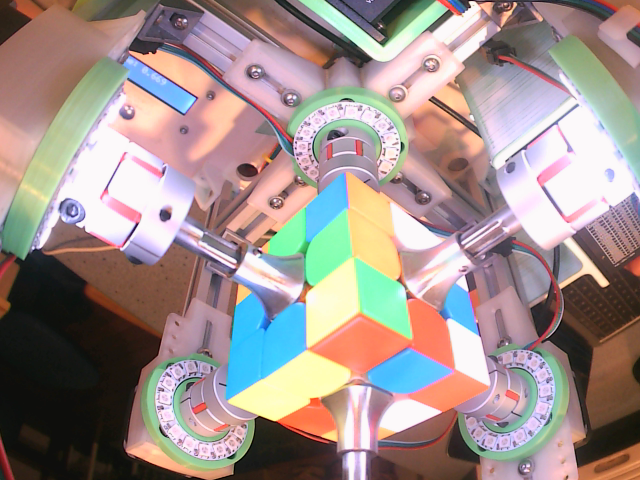
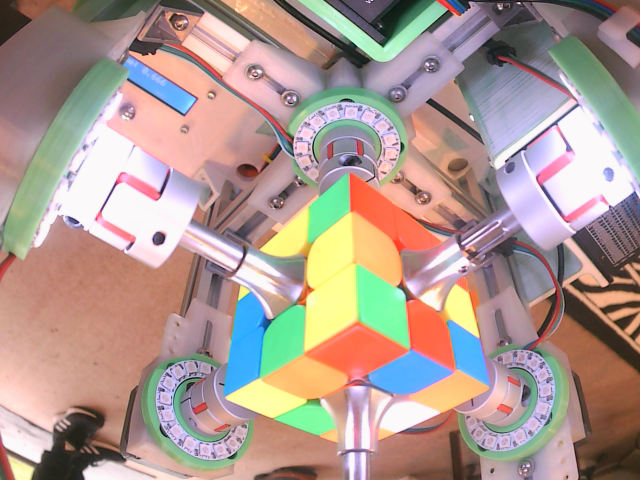
w

diff --git a/imageTest.py b/imageTest.py
@@ -5,23 +5,74 @@ import numpy as np
 from sklearn.cluster import KMeans
 from collections import Counter
 import pandas as pd
-import math
+from webcolors import *
+from scipy.spatial import KDTree
+import kociemba
+import ledssss
+import time
 
-imageTop = "copyTop.png"
-imageBottom = "copyBottom.png"
+brightness = 30
+white = (brightness, brightness, brightness)
 
-#process the image to be looked at
-imageBottom = cv.imread(imageBottom)
-imageTop = cv.imread(imageTop)
+ringBack = ledssss.ledRing(1)
+ringUp = ledssss.ledRing(2)
+ringLeft = ledssss.ledRing(3)
+ringDown = ledssss.ledRing(4)
+ringRight = ledssss.ledRing(5)
+ringFront = ledssss.ledRing(6)
+
+def takePhoto(port, imageName):
+        camera0 = cv.VideoCapture(port)
+        _, image = camera0.read()
+        cv.imwrite(imageName, image)
+        print("Image capture successful")
+        camera0.release()
+        return image
+        
+def photoTop():
+    ringBack.on(white)
+    ringUp.on(white)
+    ringLeft.on(white)
+    ringRight.off()
+    ringDown.off()
+    ringFront.off()
+    time.sleep(0.2)
+    image = takePhoto(2, "top.png")
+    time.sleep(0.2)
+    return image
+    
+def photoBottom():
+    ringRight.on(white)
+    ringDown.on(white)
+    ringFront.on(white)
+    ringBack.off()
+    ringUp.off()
+    ringLeft.off()
+    time.sleep(0.2)
+    image = takePhoto(0, "bottom.png")
+    time.sleep(0.2)
+    return image
+    
+imageBottom = photoBottom()
+imageTop = photoTop()
+
 imageTop = imutils.rotate(imageTop, 180)
 
 #colors as BGR
 white = (255, 255 ,255)
-red = (0, 0, 255)
-green = (0, 255, 0)
-yellow = (0, 255, 255)
-orange = (80, 150, 255)
-blue = (200, 118, 55)
+red = (255, 127, 95)
+green = (147, 255, 203)
+yellow = (255, 255, 210)
+orange = (255, 200, 120)
+blue = (85, 192, 255)
+blue2 = (186, 253, 255)
+yellow2 = (255, 255, 140)
+orange2 = (255, 230, 165)
+yellow3 = (247, 255, 174)
+
+rgb_list = [white, red, green, yellow, orange, blue, blue2, yellow2, orange2, yellow3]
+names_list = ["U", "R", "F", "D", "L", "B", "B", "D", "L", "D"]
+#names_list = ["White", "Red", "Green", "Yellow", "Orange", "Blue", "Blue", "Yellow", "Orange", "Yellow"]
 
 lineSize = 1
 
@@ -58,45 +109,51 @@ listUp = [
     (220, 60), #6
     (370, 75), #7
     (320, 55), #8
-    (302 , 40)  #9
+    (302, 40)  #9
 ]
 
 listDown = [
     (210 ,390), #1
     (250, 370), #2
     (289, 340), #3
-    (320, 95), #4
-    (275, 75), #5
-    (220, 60), #6
-    (370, 75), #7
-    (320, 55), #8
-    (302 , 40)  #9
+    (250, 410), #4
+    (300, 395), #5
+    (350, 370), #6
+    (325, 430), #7
+    (350, 415), #8
+    (390, 395)  #9
 ]
 
 listRight = [
-    (275 ,130), #1
-    (220, 105), #2
-    (185, 85), #3
-    (320, 95), #4
-    (275, 75), #5
-    (220, 60), #6
-    (370, 75), #7
-    (320, 55), #8
-    (302 , 40)  #9
+    (315 ,195), #1
+    (360, 230), #2
+    (415, 277), #3
+    (320, 245), #4
+    (375, 280), #5
+    (415, 310), #6
+    (320, 300), #7
+    (370, 330), #8
+    (415, 355)  #9
 ]
 
 listFront = [
-    (275 ,130), #1
-    (220, 105), #2
-    (185, 85), #3
-    (320, 95), #4
-    (275, 75), #5
-    (220, 60), #6
-    (370, 75), #7
-    (320, 55), #8
-    (302 , 40)  #9
+    (225, 245), #1
+    (245, 235), #2
+    (285, 205), #3
+    (200, 300), #4
+    (225, 285), #5
+    (280, 240), #6
+    (195, 350), #7
+    (230, 330), #8
+    (280, 300)  #9
 ]
 
+#get colour as string from RGB
+def convert(rgb):
+    kdt_db = KDTree(rgb_list)
+    
+    distance, index = kdt_db.query(rgb)
+    return  names_list[index]
 
 #returns dominant colour of image as BGR value
 def get_dominant_color(image, k=4, image_processing_size = None):
@@ -114,6 +171,9 @@ def get_dominant_color(image, k=4, image_processing_size = None):
 #returns list of colours based on input list of positions
 def getColours(list, image, face):
     print("Scanning: " + face)
+    
+    listName = []
+    
     #this loops takes small snippet of colour and gets BGR value for the dominant colour
     #Then returns cubie value
     for i in range(len(list)):
@@ -124,22 +184,42 @@ def getColours(list, image, face):
         squareSize = 12
         P2 = (x + squareSize, y + squareSize)
         
-        image = cv.rectangle(image, P1, P2, blue, lineSize)
-        image = cv.putText(image, str(i+1), P2, 1, 1, blue)
+        image = cv.rectangle(image, P1, P2, orange, lineSize)
+        image = cv.putText(image, str(i+1), P2, 1, 1, orange)
         
         section = image[int(P1[1]):int(P2[1]), int(P1[0]) : int(P2[0])]
         section = cv.resize(section, (200,200))
         color = get_dominant_color(section)
         color = [round(i) for i in color]
-        print(str(color) + str(i+1))
+        color.reverse()
+        color_name = convert(color)
+        print(str(color_name) + str(color) + str(i+1))
+        listName.append(color_name)
+    
+    listName[4] = face
+    print(listName)
+    return listName
+    
 
-getColours(listBack, imageTop, "Blue")
-getColours(listLeft, imageTop, "Orange")
-getColours(listUp, imageTop, "White")
+back = getColours(listBack, imageTop, "B")
+left = getColours(listLeft, imageTop, "L")
+up = getColours(listUp, imageTop, "U")
 
-getColours(listRight, imageBottom, "Blue")
-getColours(listFront, imageBottom, "Orange")
-getColours(listDown, imageBottom, "White")
+right = getColours(listRight, imageBottom, "R")
+front = getColours(listFront, imageBottom, "F")
+down = getColours(listDown, imageBottom, "D")
+
+totalList = []
+totalList = up + right + front + down + left + back
+print(len(totalList))
+cube = ""
+
+for i in range(len(totalList)):
+    cube = cube + totalList[i]
+    
+print(cube)
+solution = kociemba.solve(cube)
+print(solution)
 
 #show result
 cv.imshow("Window", imageTop)
